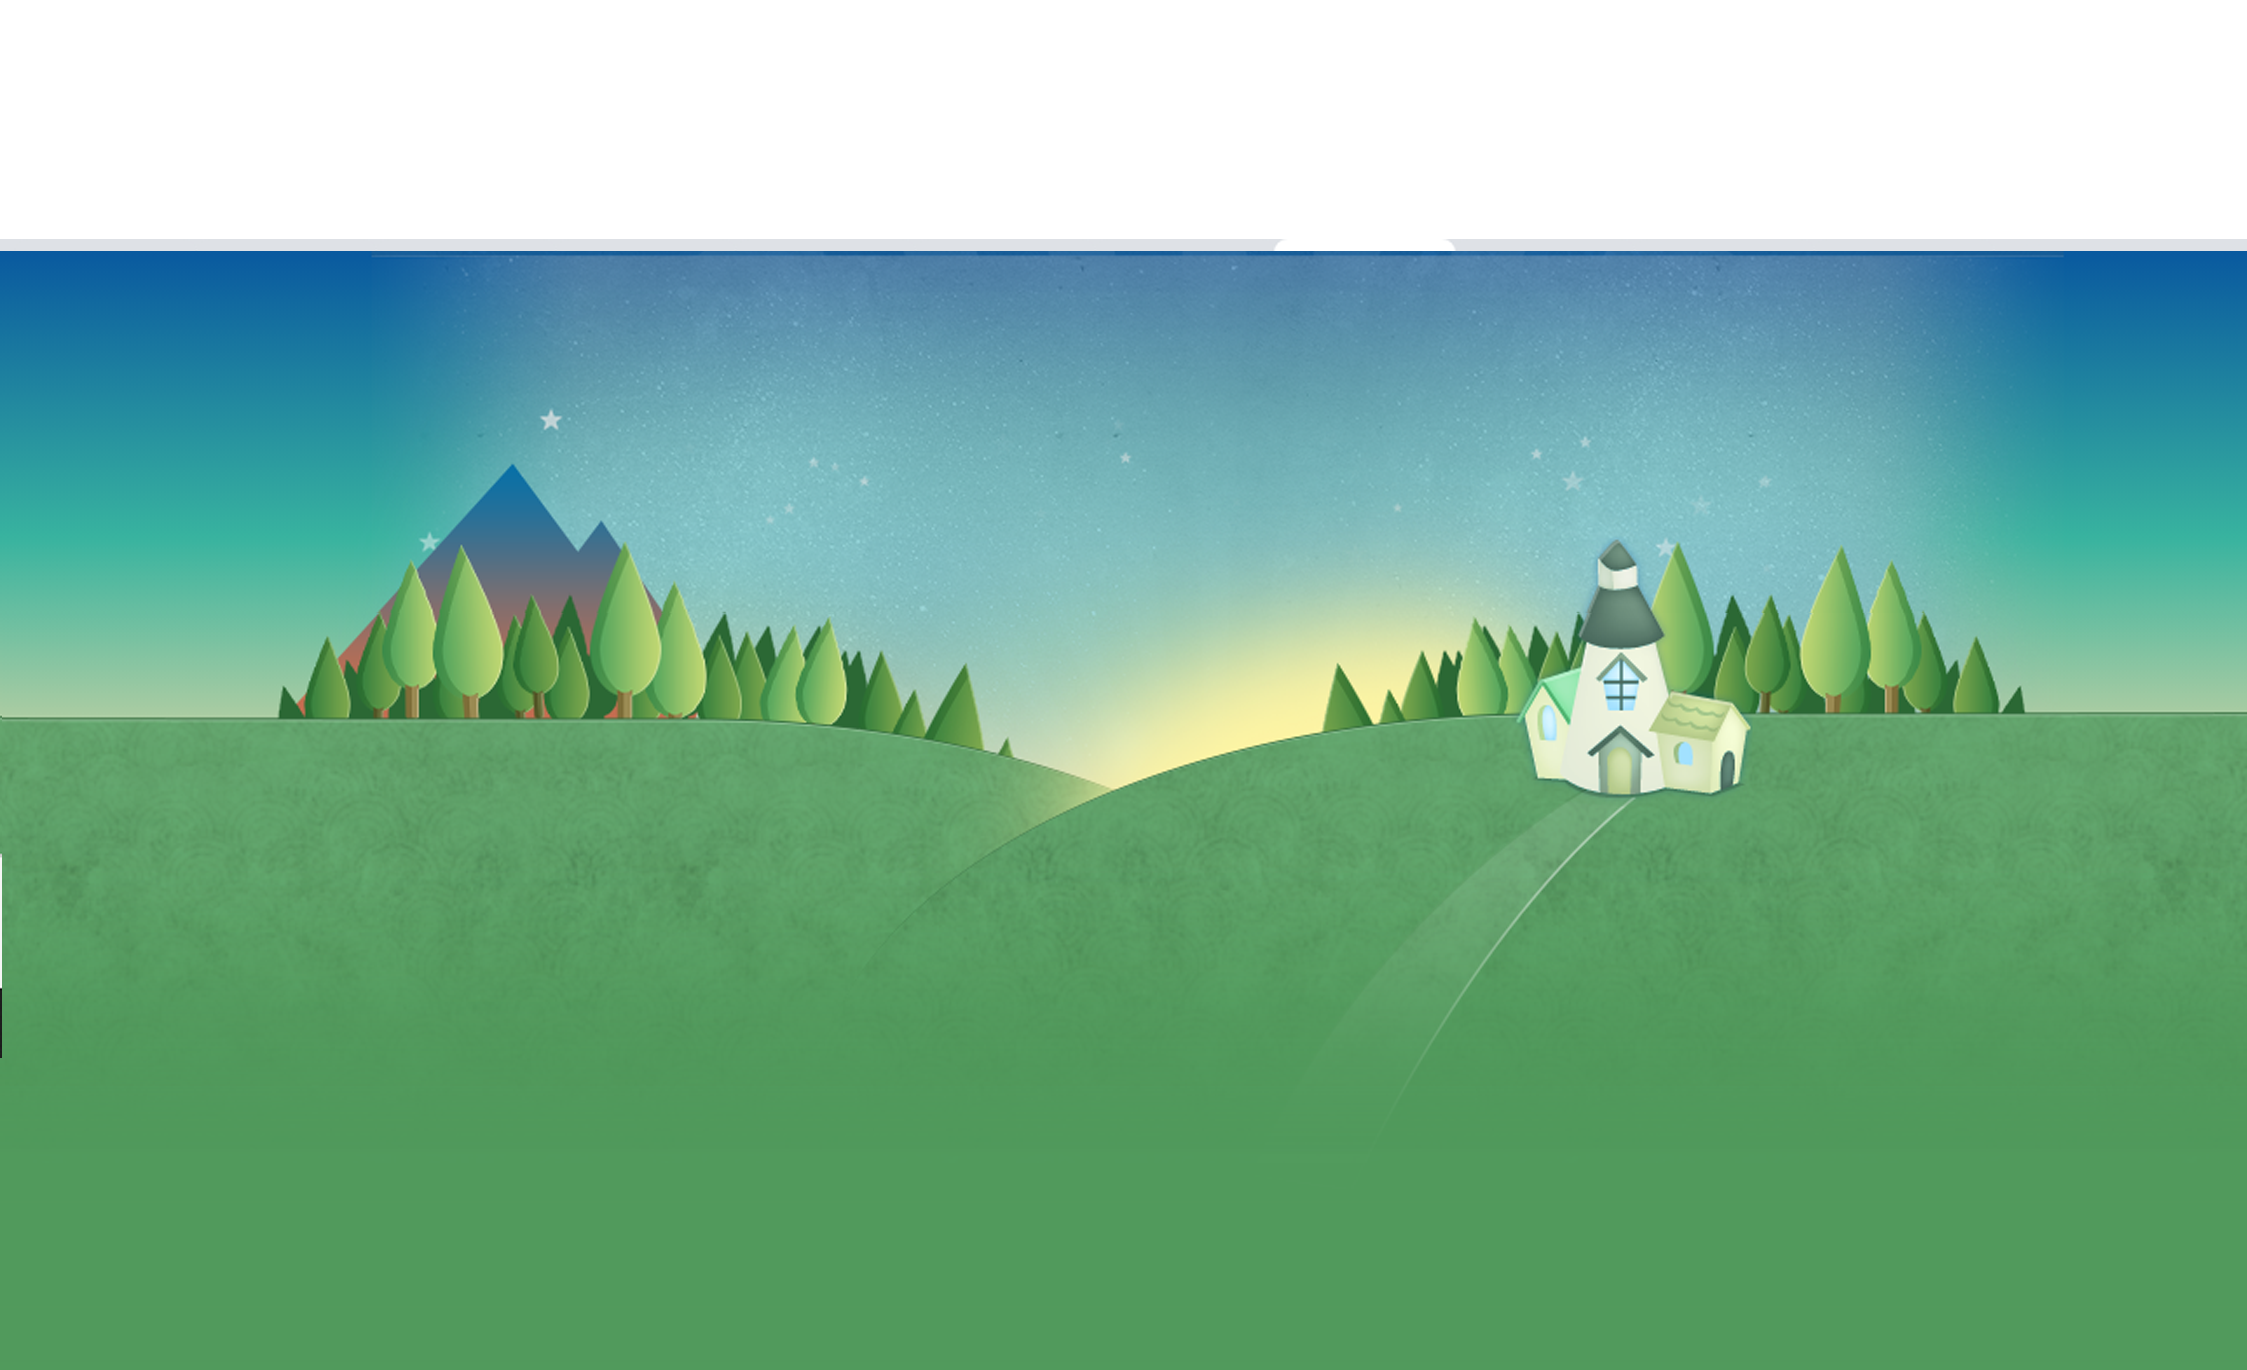
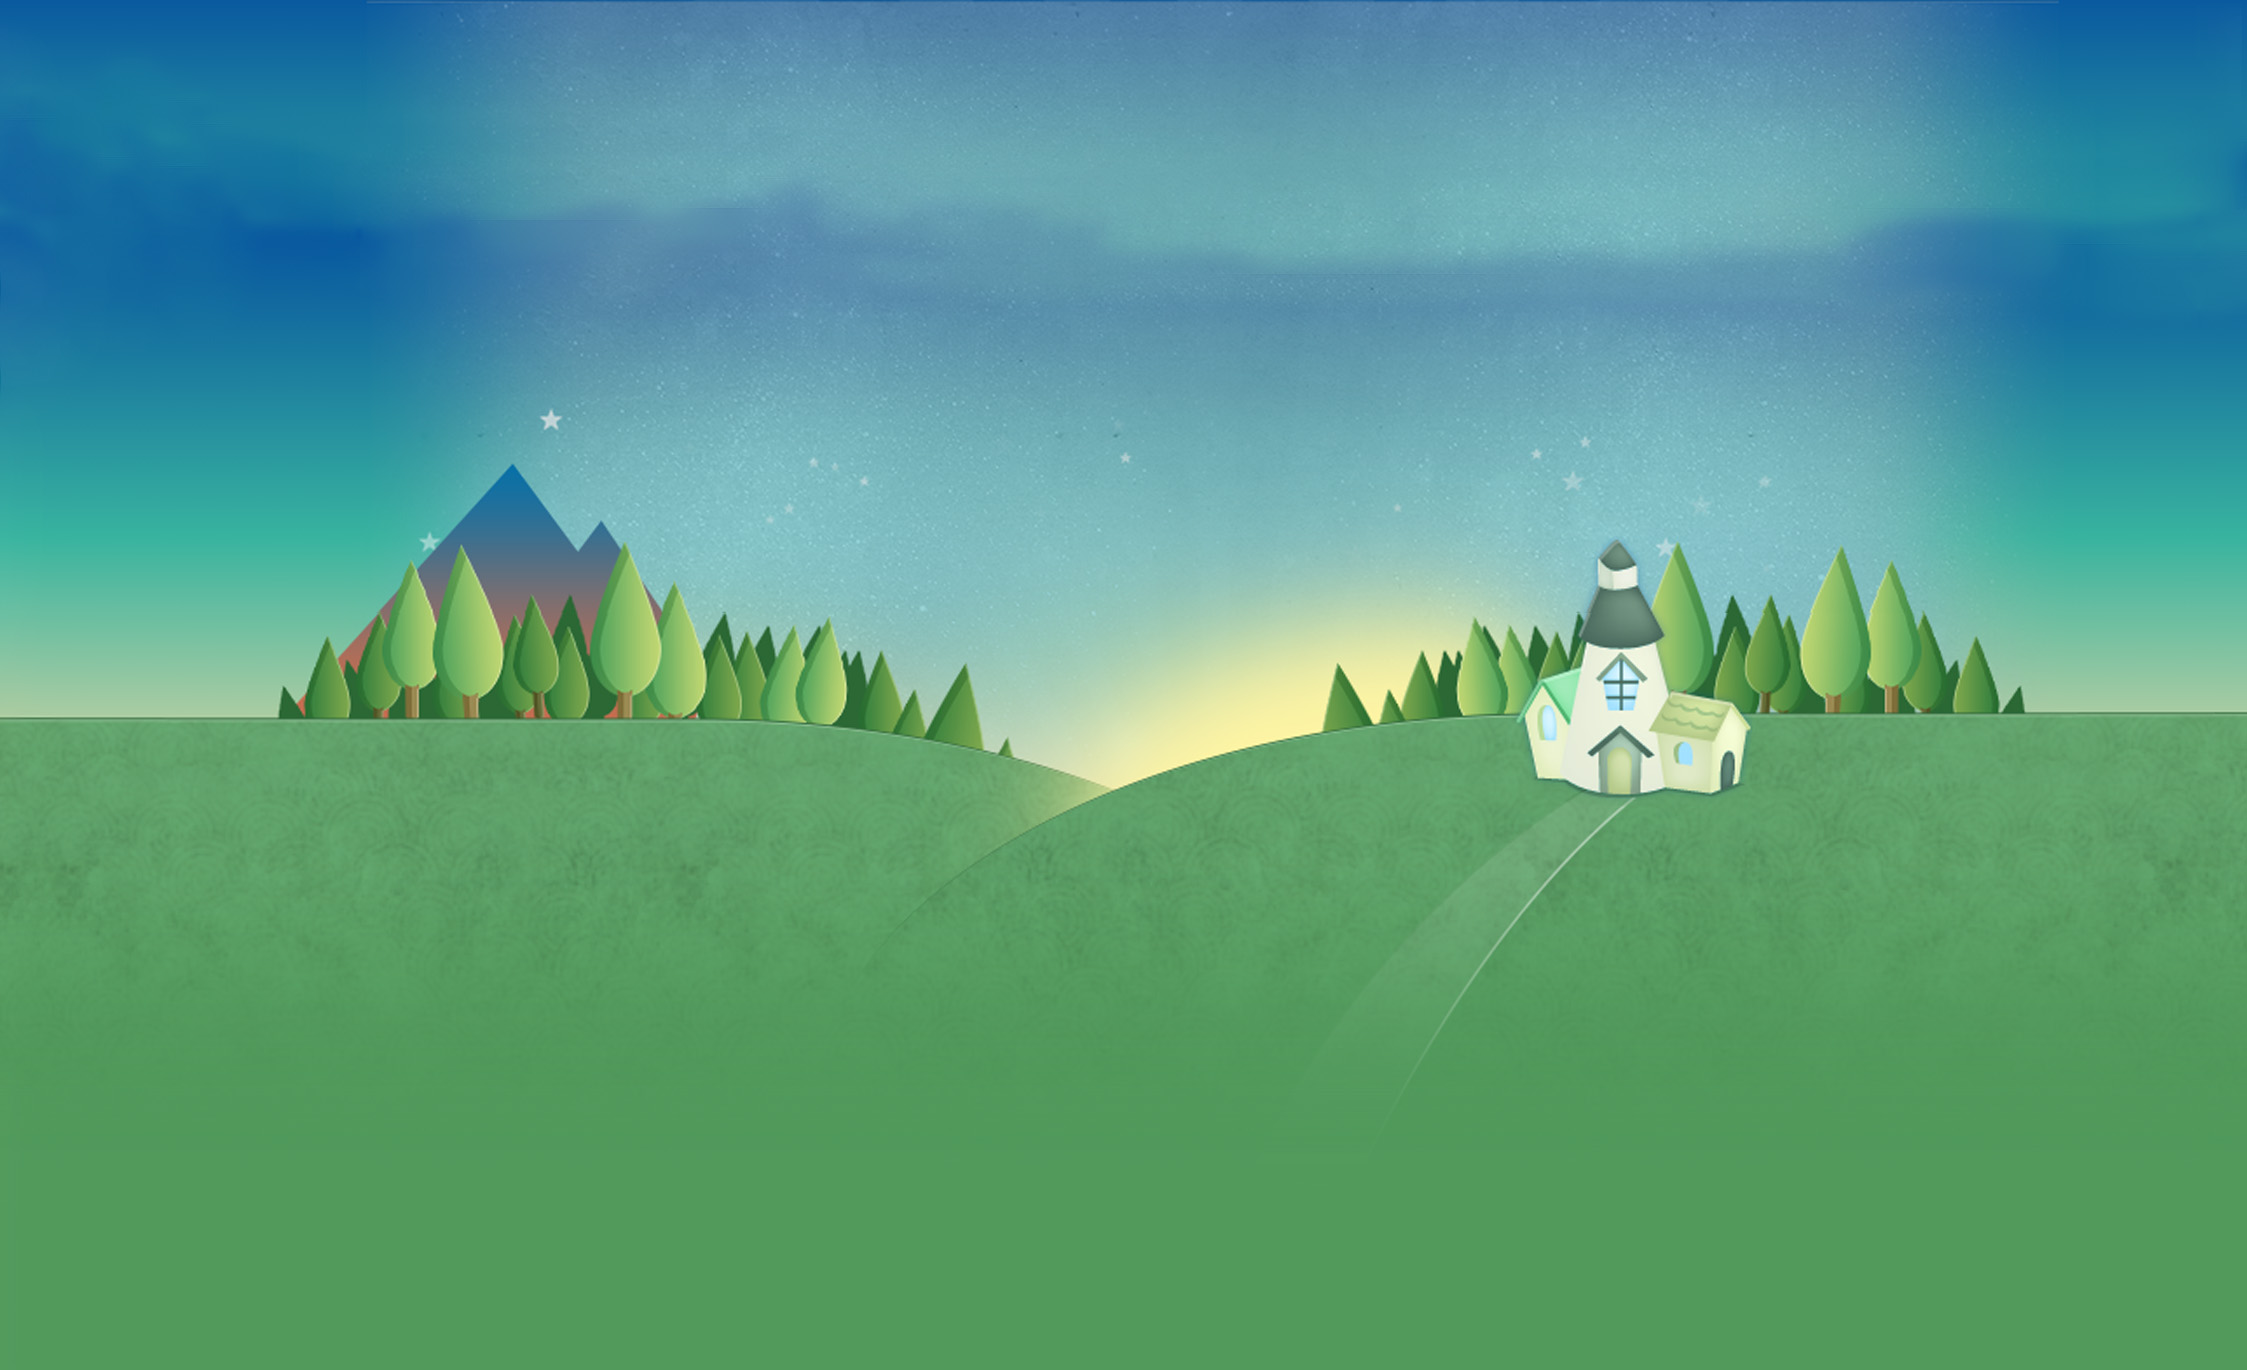
Добавл фото

Changed region(s): [[0.0, 0.0, 1.0, 0.2146]]

diff --git a/src/sass/layout/_header.scss b/src/sass/layout/_header.scss
@@ -1,0 +1,70 @@
+.header {
+  width: 100%;
+  position: absolute;
+  top: 0;
+  z-index: 30;
+}
+
+.container {
+  display: flex;
+  justify-content: space-between;
+}
+
+.header-photo {
+  border-radius: 50%;
+  overflow: hidden;
+  box-shadow: 5px 5px 15px 5px #000000;
+  animation: scale 4000ms infinite;
+}
+@keyframes scale {
+  0% {
+    transform: scale(1);
+  }
+
+  50% {
+    transform: scale(0.85);
+  }
+
+  100% {
+    transform: scale(1);
+  }
+}
+
+.header-contacts {
+  display: flex;
+  flex-direction: column;
+  justify-content: space-evenly;
+}
+
+.header-contacts-tel-icon {
+  background-image: url(../images/tel.png);
+  background-size: contain;
+  width: 20px;
+  height: 20px;
+  background-repeat: no-repeat;
+  display: inline-block;
+  vertical-align: bottom;
+  margin-right: 12px;
+}
+
+.header-contacts-mail-icon {
+  background-image: url(../images/mail.png);
+  background-size: contain;
+  height: 20px;
+  width: 20px;
+  background-repeat: no-repeat;
+  display: inline-block;
+  vertical-align: bottom;
+  margin-right: 12px;
+}
+
+.header-contacts-git-icon {
+  background-image: url(../images/git.png);
+  background-size: cover;
+  height: 20px;
+  width: 20px;
+  background-repeat: no-repeat;
+  display: inline-block;
+  vertical-align: bottom;
+  margin-right: 12px;
+}

diff --git a/src/sass/layout/_background.scss b/src/sass/layout/_background.scss
@@ -244,6 +244,7 @@ body {
 // STAR
 
 .star {
+  display: none;
   width: 20px;
   height: 20px;
   background-image: url(../images/st.png);
@@ -254,17 +255,31 @@ body {
 
   animation: spin 5s infinite linear;
 }
-#star1 {
-  top: 200px;
-  left: 512px;
+@media screen and (min-width: 534px) {
+  #star1 {
+    display: block;
+    top: 200px;
+    left: 512px;
+  }
 }
 
-#star2 {
-  width: 15px;
-  height: 15px;
-  top: 300px;
-  left: 712px;
-  animation: spin 5s infinite linear;
+@media screen and (min-width: 740px) {
+  #star2 {
+    display: block;
+    width: 15px;
+    height: 15px;
+    top: 300px;
+    left: 712px;
+  }
+}
+@media screen and (min-width: 1280px) {
+  #star3 {
+    display: block;
+    width: 15px;
+    height: 15px;
+    top: 250px;
+    left: 1252px;
+  }
 }
 
 @keyframes spin {

diff --git a/src/html/header.html b/src/html/header.html
@@ -1,1 +1,22 @@
-<p class="header-tel">тел: 0963834178</p>
+<header class="header">
+  <div class="container">
+    <div class="header-contacts">
+      <a href="tel:+380963834178" class="header-contacts-tel">
+        <span class="header-contacts-tel-icon"></span> +38 096 383 4178</a
+      >
+      <a href="" class="header-contacts-mail">
+        <span class="header-contacts-mail-icon"></span
+        >david.shakaya.t@gmail.com</a
+      >
+      <a href=""><span class="header-contacts-git-icon"></span>GitHub</a>
+    </div>
+    <div class="header-photo">
+      <img
+        class="header-photo-img"
+        src="../images/photo.jpg"
+        alt="фото"
+        width="140px"
+      />
+    </div>
+  </div>
+</header>

diff --git a/src/sass/components/_container.scss b/src/sass/components/_container.scss
@@ -1,9 +1,9 @@
-// .container {
-//   padding-left: 20px;
-//   padding-right: 20px;
-//   margin-right: auto;
-//   margin-left: auto;
-// }
+.container {
+  padding-left: 40px;
+  padding-right: 40px;
+  margin-right: auto;
+  margin-left: auto;
+}
 // .container-body-list-card {
 //   padding-right: 19px;
 // }

diff --git a/src/sass/main.scss b/src/sass/main.scss
@@ -1,6 +1,7 @@
 @import 'normalize.scss';
 @import 'base.scss';
 @import './utils/var';
-// @import './components/container';
+@import './components/container';
+@import './layout/header';
 @import './layout/background';
 @import './layout/tabs';
